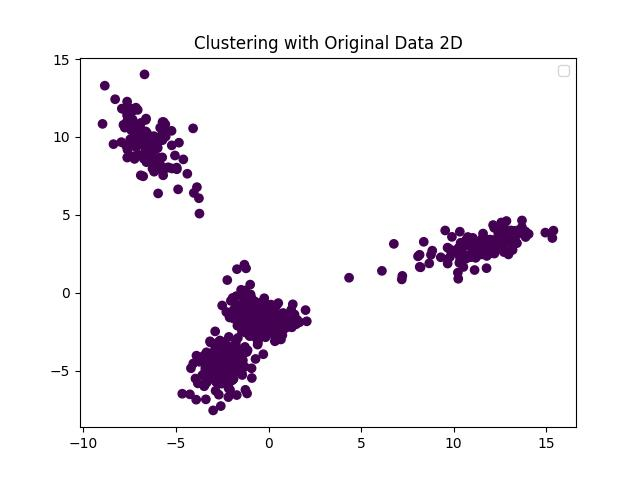
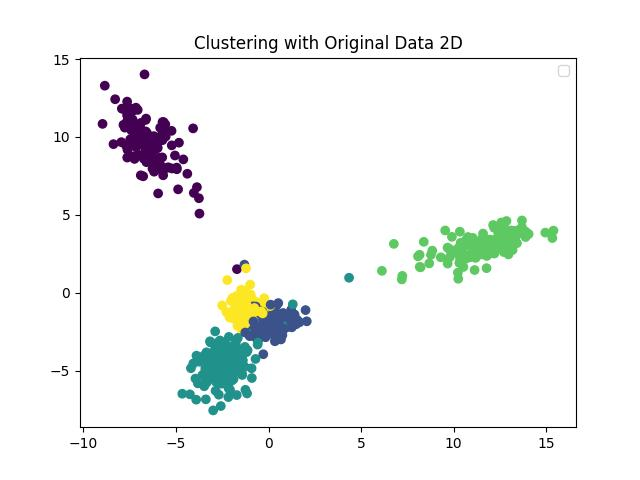
k_means clustering

Changed region(s): [[0.2812, 0.5312, 0.5, 0.875], [0.5938, 0.4375, 0.875, 0.5938], [0.5312, 0.5625, 0.5625, 0.5938]]

diff --git a/src/numeric.py b/src/numeric.py
@@ -1,10 +1,10 @@
-import csv
 import random
 import math
 import matplotlib.pyplot as plt
+import csv
 import numpy as np
 import pandas as pd
-from sklearn.cluster import DBSCAN
+from sklearn.cluster import DBSCAN, KMeans
 from sklearn.decomposition import PCA as sklearnPCA
 from sklearn.discriminant_analysis import LinearDiscriminantAnalysis as LDA
 from sklearn.ensemble import RandomForestClassifier
@@ -135,14 +135,14 @@ def cluster_data_search(x_train, x_test):
     norm = (complete_data - np.min(complete_data))/np.ptp(complete_data)
 
     print(np.max(norm), np.min(norm))
-    # eps_dist = calculate_kn_distance(norm,20)
+    # eps_dist = calculate_kn_distance(norm,4)
     # plt.hist(eps_dist,bins=30)
     # plt.ylabel('n');
     # plt.xlabel('Epsilon distance');
     # plt.show()
-    # exit()
-    eps_vals = np.arange(0.001, 0.03, 0.001)
-    min_vals = range(10, 50)
+
+    eps_vals = np.arange(0.0001, 0.006, 0.0001)
+    min_vals = range(3, 6)
     for eps_val in eps_vals:
         for min_sample in min_vals:
             clustering = DBSCAN(eps = eps_val, min_samples = min_sample).fit(norm)
@@ -157,6 +157,12 @@ def cluster_with_params(x1, x2, eps, min_samples):
     clusters =len(set(labels))-(1 if -1 in labels else 0)
     return labels, clusters
 
+def k_means_clustering(x1, x2):
+    complete_data = np.concatenate((x1, x2))
+    kmeans = KMeans(n_clusters=5, random_state=69).fit(complete_data)
+    labels = kmeans.labels_
+    clusters =len(set(labels))-(1 if -1 in labels else 0)
+    return labels, clusters
 
 
 def main():
@@ -234,18 +240,19 @@ def main():
     #------------Clustering------------#
     print('\nclustering data...')
     # cluster_data_search(original_train, original_test)
-    cluster_data_search(reduced_train, reduced_test)
-    # original_labels, original_clusters = cluster_with_params(original_train, original_test, 17.47, 8)
-    reduced_labels, reduced_clusters = cluster_with_params(reduced_train, reduced_test, 5.63, 7)
+    # cluster_data_search(reduced_train, reduced_test)
+    original_labels, original_clusters = k_means_clustering(original_train, original_test)
+    print(original_labels)
+    # reduced_labels, reduced_clusters = cluster_with_params(reduced_train, reduced_test, 5.63, 7)
 
-    # print(f'Estimated no. of clusters for original dataset: {original_clusters}')
-    print(f'Estimated no. of clusters for reduced dataset: {reduced_clusters}')
-    # original_data = np.concatenate((reduced_train, reduced_test))
-    reduced_data = np.concatenate((reduced_train, reduced_test))
-    # visualise_cluster(original_data, original_labels, dims=2, save=True,  title='Clustering with Original Data 2D')
-    # visualise_cluster(original_data, original_labels, dims=3, save=True,  title='Clustering with Original Data 3D')
-    visualise_cluster(reduced_data, reduced_labels, dims=2, save=True,  title='Clustering with Reduced Data 2D')
-    visualise_cluster(reduced_data, reduced_labels, dims=3, save=True,  title='Clustering with Reduced Data 3D')
+    print(f'Estimated no. of clusters for original dataset: {original_clusters}')
+    # print(f'Estimated no. of clusters for reduced dataset: {reduced_clusters}')
+    original_data = np.concatenate((reduced_train, reduced_test))
+    # reduced_data = np.concatenate((reduced_train, reduced_test))
+    visualise_cluster(original_data, original_labels, dims=2, save=True,  title='Clustering with Original Data 2D')
+    visualise_cluster(original_data, original_labels, dims=3, save=True,  title='Clustering with Original Data 3D')
+    # visualise_cluster(reduced_data, reduced_labels, dims=2, save=True,  title='Clustering with Reduced Data 2D')
+    # visualise_cluster(reduced_data, reduced_labels, dims=3, save=True,  title='Clustering with Reduced Data 3D')
     exit()
     #------------Grid Search------------#
     # #knn for original
